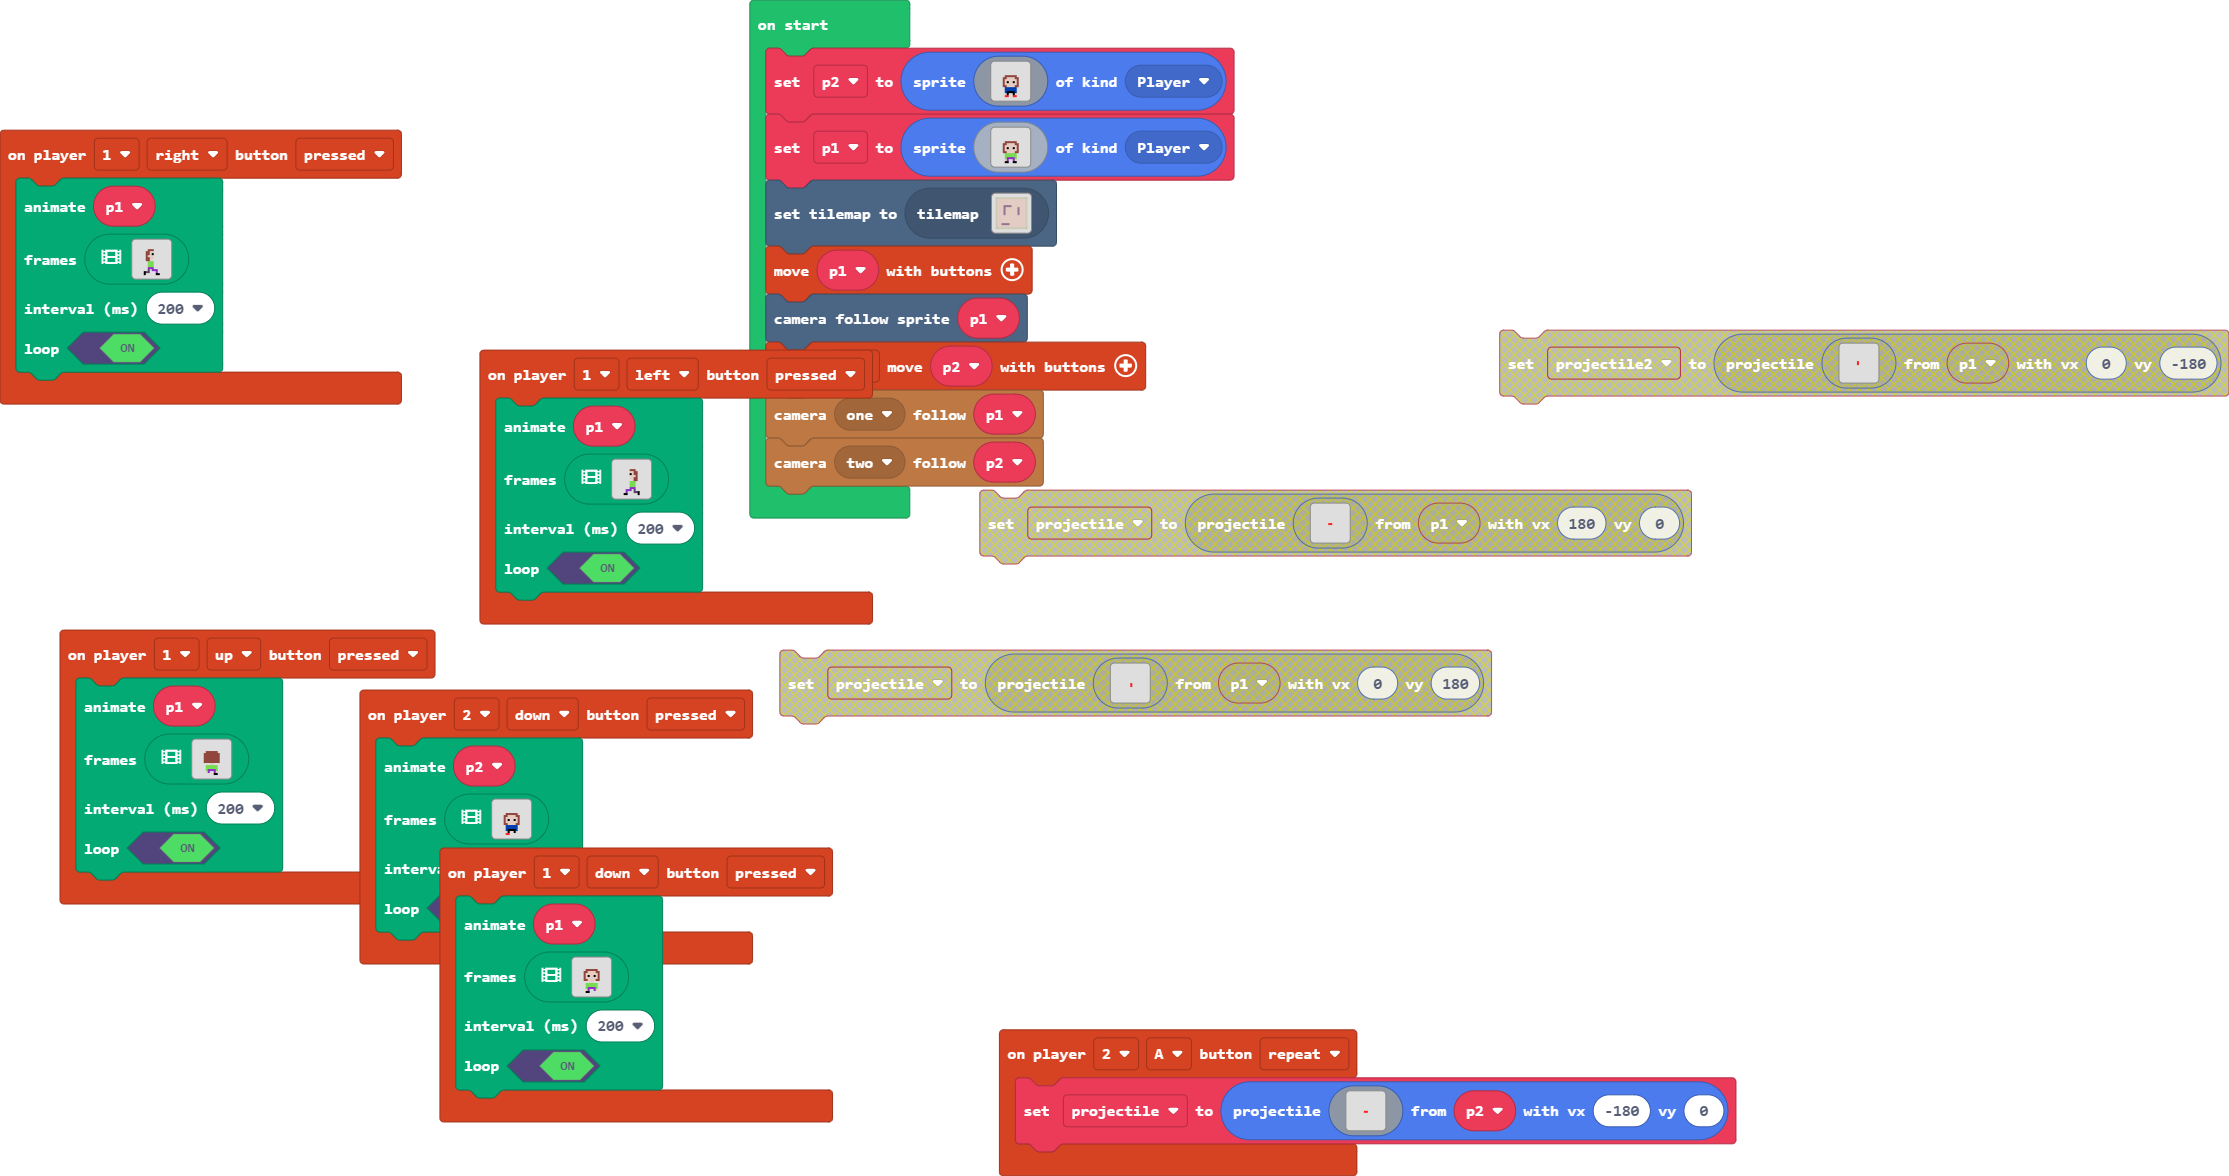
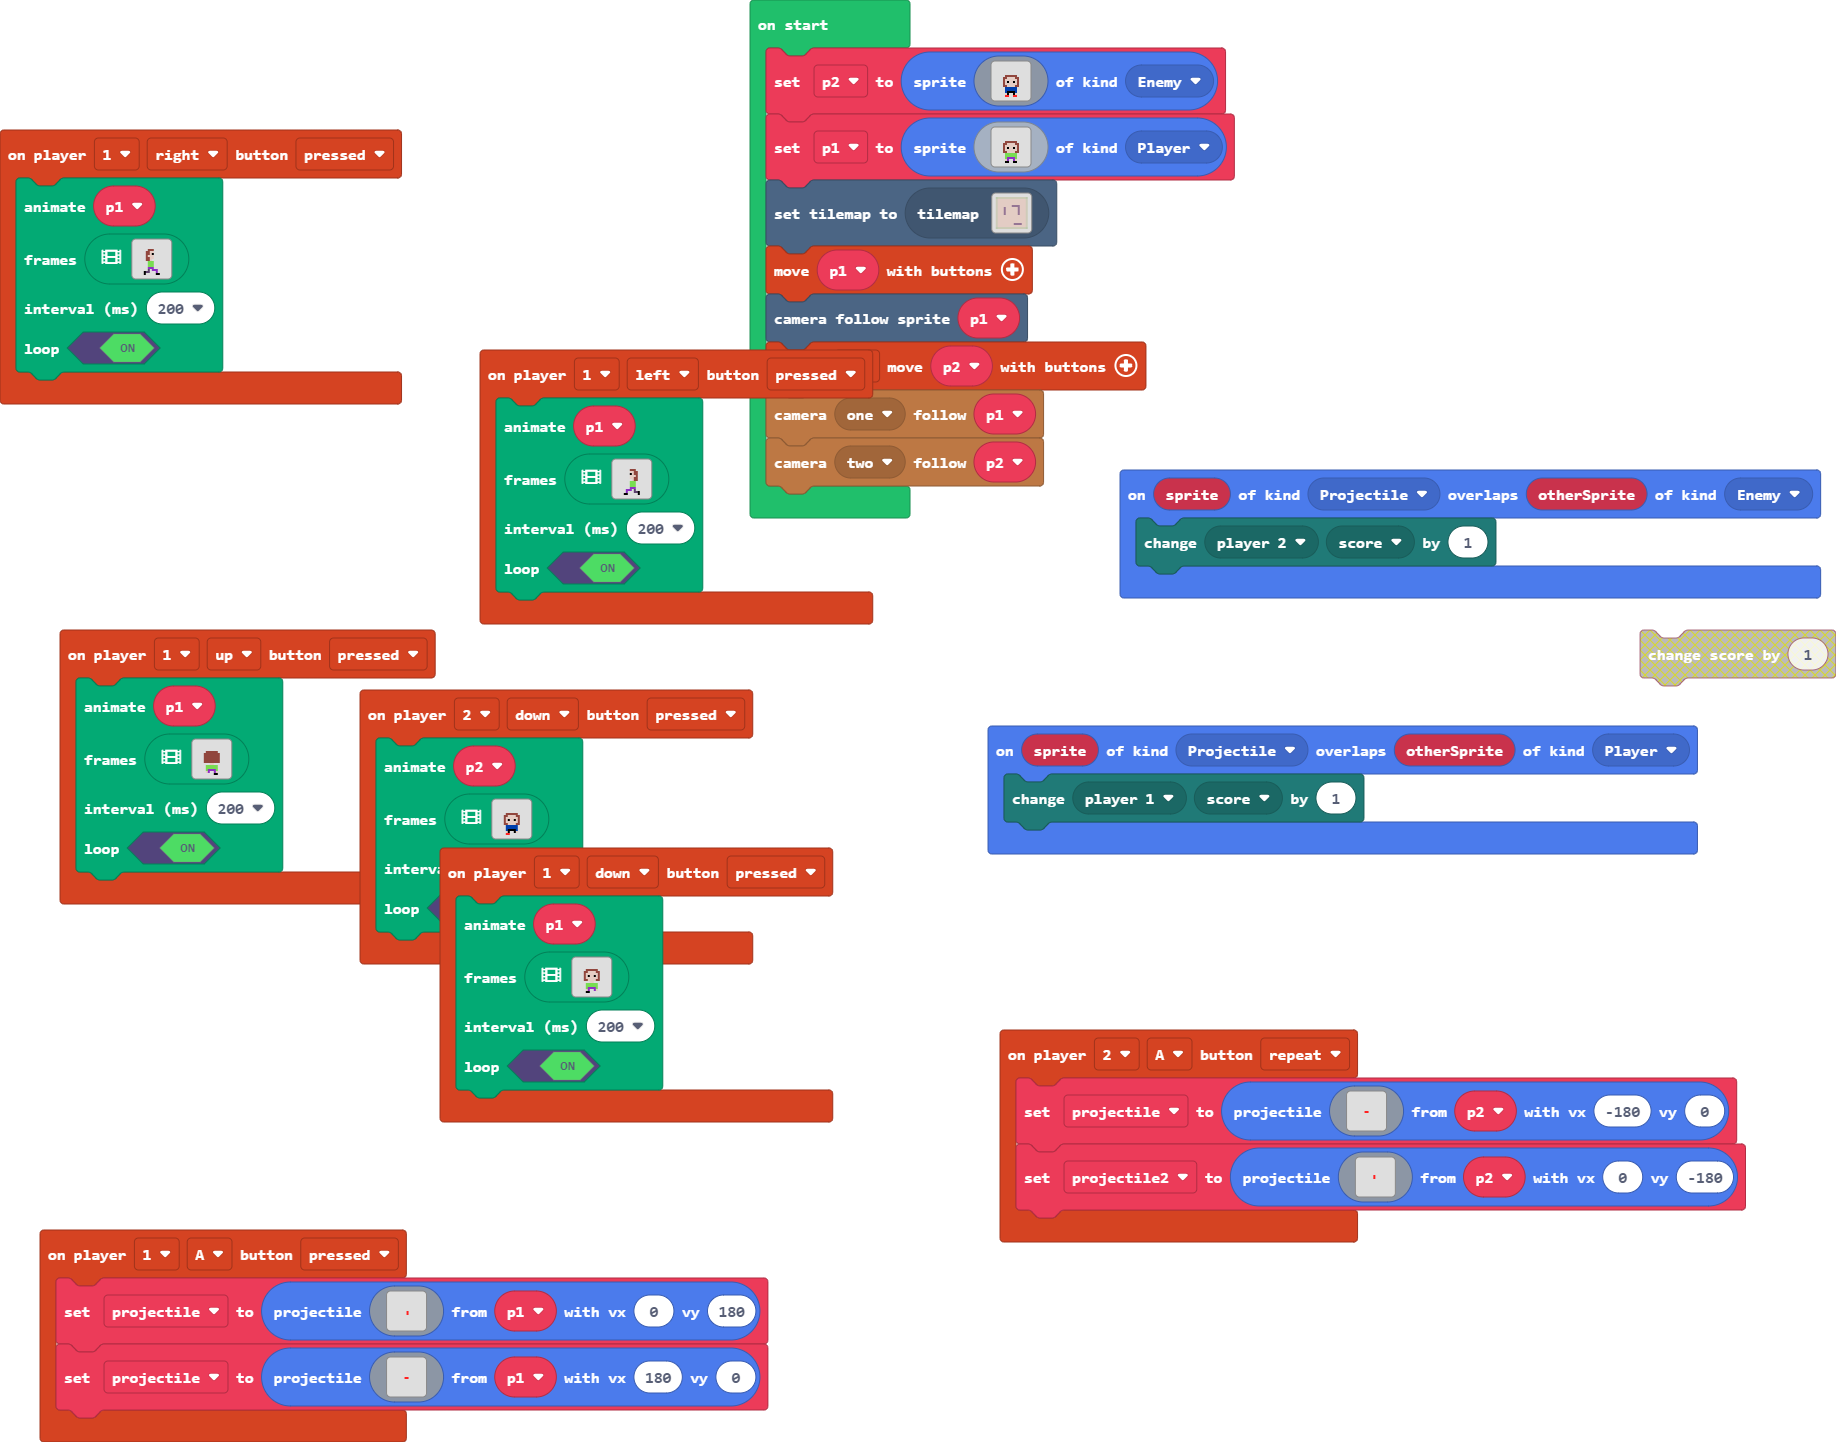
yas

diff --git a/main.ts b/main.ts
@@ -17,6 +17,24 @@ controller.player2.onButtonEvent(ControllerButton.A, ControllerButtonEvent.Repea
         . . . . . . . . . . . . . . . . 
         . . . . . . . . . . . . . . . . 
         `, p2, -180, 0)
+    projectile2 = sprites.createProjectileFromSprite(img`
+        . . . . . . . . . . . . . . . . 
+        . . . . . . . . . . . . . . . . 
+        . . . . . . . . . . . . . . . . 
+        . . . . . . . . . . . . . . . . 
+        . . . . . . . . . . . . . . . . 
+        . . . . . . . . . . . . . . . . 
+        . . . . . . . . . . . . . . . . 
+        . . . . . . . 2 . . . . . . . . 
+        . . . . . . . 2 . . . . . . . . 
+        . . . . . . . . . . . . . . . . 
+        . . . . . . . . . . . . . . . . 
+        . . . . . . . . . . . . . . . . 
+        . . . . . . . . . . . . . . . . 
+        . . . . . . . . . . . . . . . . 
+        . . . . . . . . . . . . . . . . 
+        . . . . . . . . . . . . . . . . 
+        `, p2, 0, -180)
 })
 controller.player1.onButtonEvent(ControllerButton.Up, ControllerButtonEvent.Pressed, function () {
     animation.runImageAnimation(
@@ -102,6 +120,9 @@ controller.player2.onButtonEvent(ControllerButton.Down, ControllerButtonEvent.Pr
     true
     )
 })
+sprites.onOverlap(SpriteKind.Projectile, SpriteKind.Player, function (sprite, otherSprite) {
+    mp.changePlayerStateBy(mp.playerSelector(mp.PlayerNumber.One), MultiplayerState.score, 1)
+})
 controller.player1.onButtonEvent(ControllerButton.Right, ControllerButtonEvent.Pressed, function () {
     animation.runImageAnimation(
     p1,
@@ -177,6 +198,47 @@ controller.player1.onButtonEvent(ControllerButton.Right, ControllerButtonEvent.P
     200,
     true
     )
+})
+controller.player1.onButtonEvent(ControllerButton.A, ControllerButtonEvent.Pressed, function () {
+    projectile = sprites.createProjectileFromSprite(img`
+        . . . . . . . . . . . . . . . . 
+        . . . . . . . . . . . . . . . . 
+        . . . . . . . . . . . . . . . . 
+        . . . . . . . . . . . . . . . . 
+        . . . . . . . . . . . . . . . . 
+        . . . . . . . . . . . . . . . . 
+        . . . . . . . . . . . . . . . . 
+        . . . . . . . . . . . . . . . . 
+        . . . . . . . . 2 . . . . . . . 
+        . . . . . . . . 2 . . . . . . . 
+        . . . . . . . . . . . . . . . . 
+        . . . . . . . . . . . . . . . . 
+        . . . . . . . . . . . . . . . . 
+        . . . . . . . . . . . . . . . . 
+        . . . . . . . . . . . . . . . . 
+        . . . . . . . . . . . . . . . . 
+        `, p1, 0, 180)
+    projectile = sprites.createProjectileFromSprite(img`
+        . . . . . . . . . . . . . . . . 
+        . . . . . . . . . . . . . . . . 
+        . . . . . . . . . . . . . . . . 
+        . . . . . . . . . . . . . . . . 
+        . . . . . . . . . . . . . . . . 
+        . . . . . . . . . . . . . . . . 
+        . . . . . . . . . . . . . . . . 
+        . . . . . . . . . . . . . . . . 
+        . . . . . . . 2 2 . . . . . . . 
+        . . . . . . . . . . . . . . . . 
+        . . . . . . . . . . . . . . . . 
+        . . . . . . . . . . . . . . . . 
+        . . . . . . . . . . . . . . . . 
+        . . . . . . . . . . . . . . . . 
+        . . . . . . . . . . . . . . . . 
+        . . . . . . . . . . . . . . . . 
+        `, p1, 180, 0)
+})
+sprites.onOverlap(SpriteKind.Projectile, SpriteKind.Enemy, function (sprite, otherSprite) {
+    mp.changePlayerStateBy(mp.playerSelector(mp.PlayerNumber.Two), MultiplayerState.score, 1)
 })
 controller.player1.onButtonEvent(ControllerButton.Left, ControllerButtonEvent.Pressed, function () {
     animation.runImageAnimation(
@@ -296,6 +358,7 @@ controller.player1.onButtonEvent(ControllerButton.Down, ControllerButtonEvent.Pr
     true
     )
 })
+let projectile2: Sprite = null
 let projectile: Sprite = null
 let p1: Sprite = null
 let p2: Sprite = null
@@ -316,7 +379,7 @@ p2 = sprites.create(img`
     . . . . . 8 f f f f 8 . . . . . 
     . . . . . d f . . f d . . . . . 
     . . . . . 2 2 . . 2 2 . . . . . 
-    `, SpriteKind.Player)
+    `, SpriteKind.Enemy)
 p1 = sprites.create(img`
     . . . . . . . . . . . . . . . . 
     . . . . . . . . . . . . . . . . 

diff --git a/tilemap.g.ts b/tilemap.g.ts
@@ -65,12 +65,12 @@ namespace myTiles {
 . . . . . . . . . . . . . . . . 
 `, [myTiles.transparency16], TileScale.Sixteen);
             case "level1":
[2 lines of base64/hex data omitted]
 . . . . . . . . . . . . . . . . 
 . . . . . . . . . . . . . . . . 
 . . . . . . . . . . . . . . . . 
 . . . . . . . . . . . . . . . . 
-. . . . 2 2 2 2 . . . . . . . . 
+. . . . . . . . 2 2 2 2 . . . . 
 . . . . 2 . . . . . . 2 . . . . 
 . . . . 2 . . . . . . 2 . . . . 
 . . . . 2 . . . . . . 2 . . . . 
@@ -79,7 +79,7 @@ namespace myTiles {
 . . . . . . . . . . . . . . . . 
 . . . . . . . . . . . . . . . . 
 . . . . . . . . . . . . . . . . 
-. . . 2 2 2 2 . . . . . . . . . 
+. . . . . . . . . 2 2 2 2 . . . 
 . . . . . . . . . . . . . . . . 
 . . . . . . . . . . . . . . . . 
 `, [myTiles.transparency16,sprites.castle.tilePath5,sprites.castle.tilePath2,sprites.castle.tilePath3,sprites.castle.tilePath1,sprites.castle.tilePath8,sprites.castle.tilePath9,sprites.castle.tilePath7,sprites.castle.tilePath6,sprites.castle.tilePath4,myTiles.tile1], TileScale.Sixteen);
